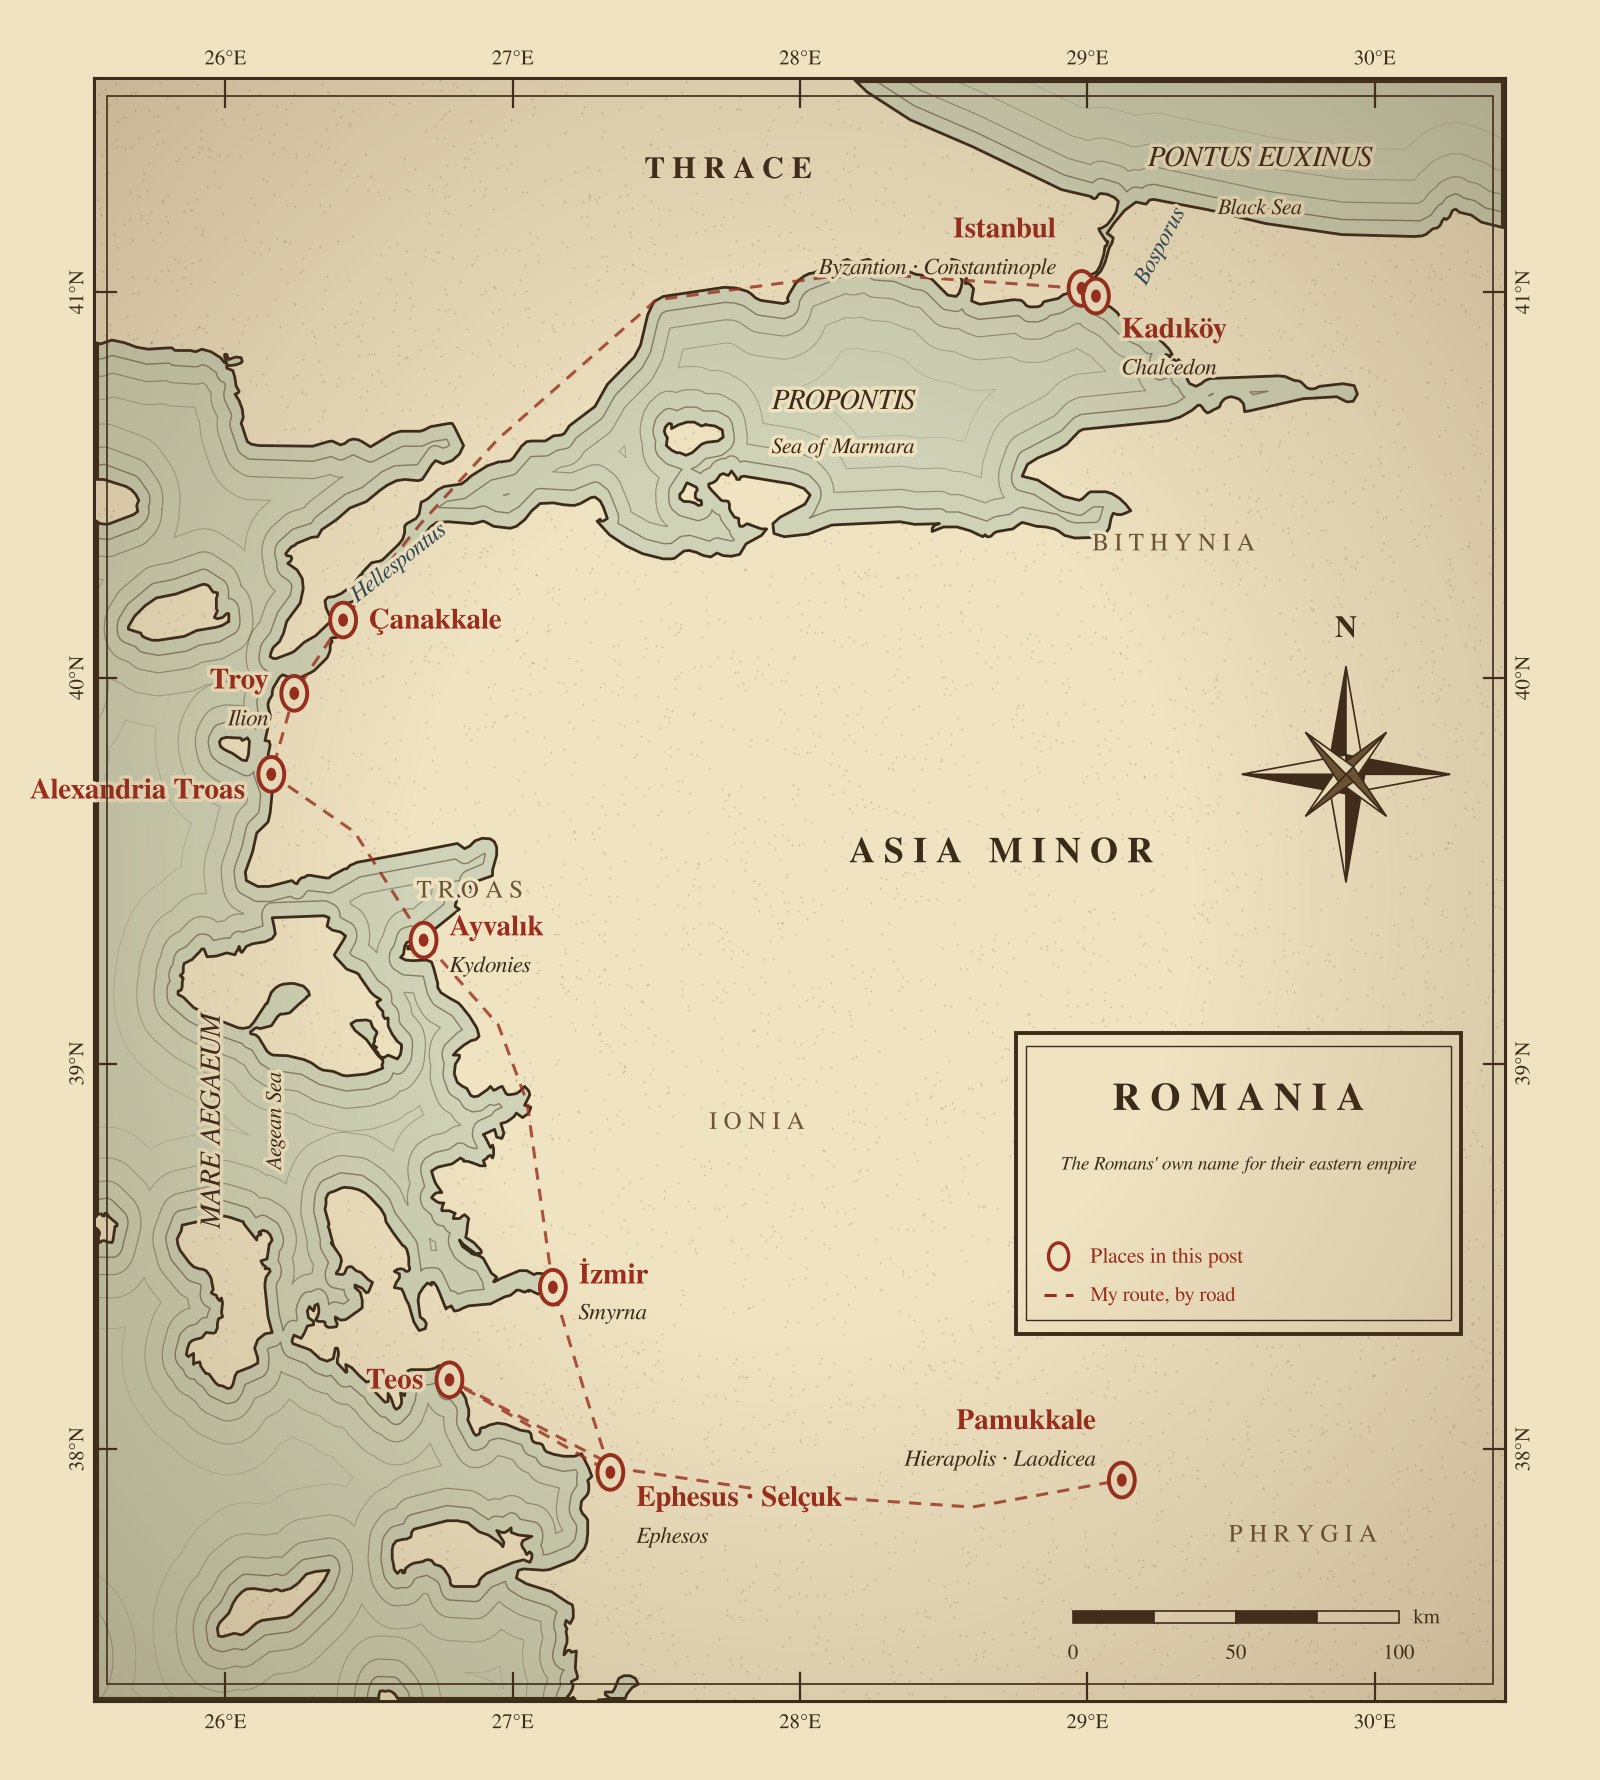
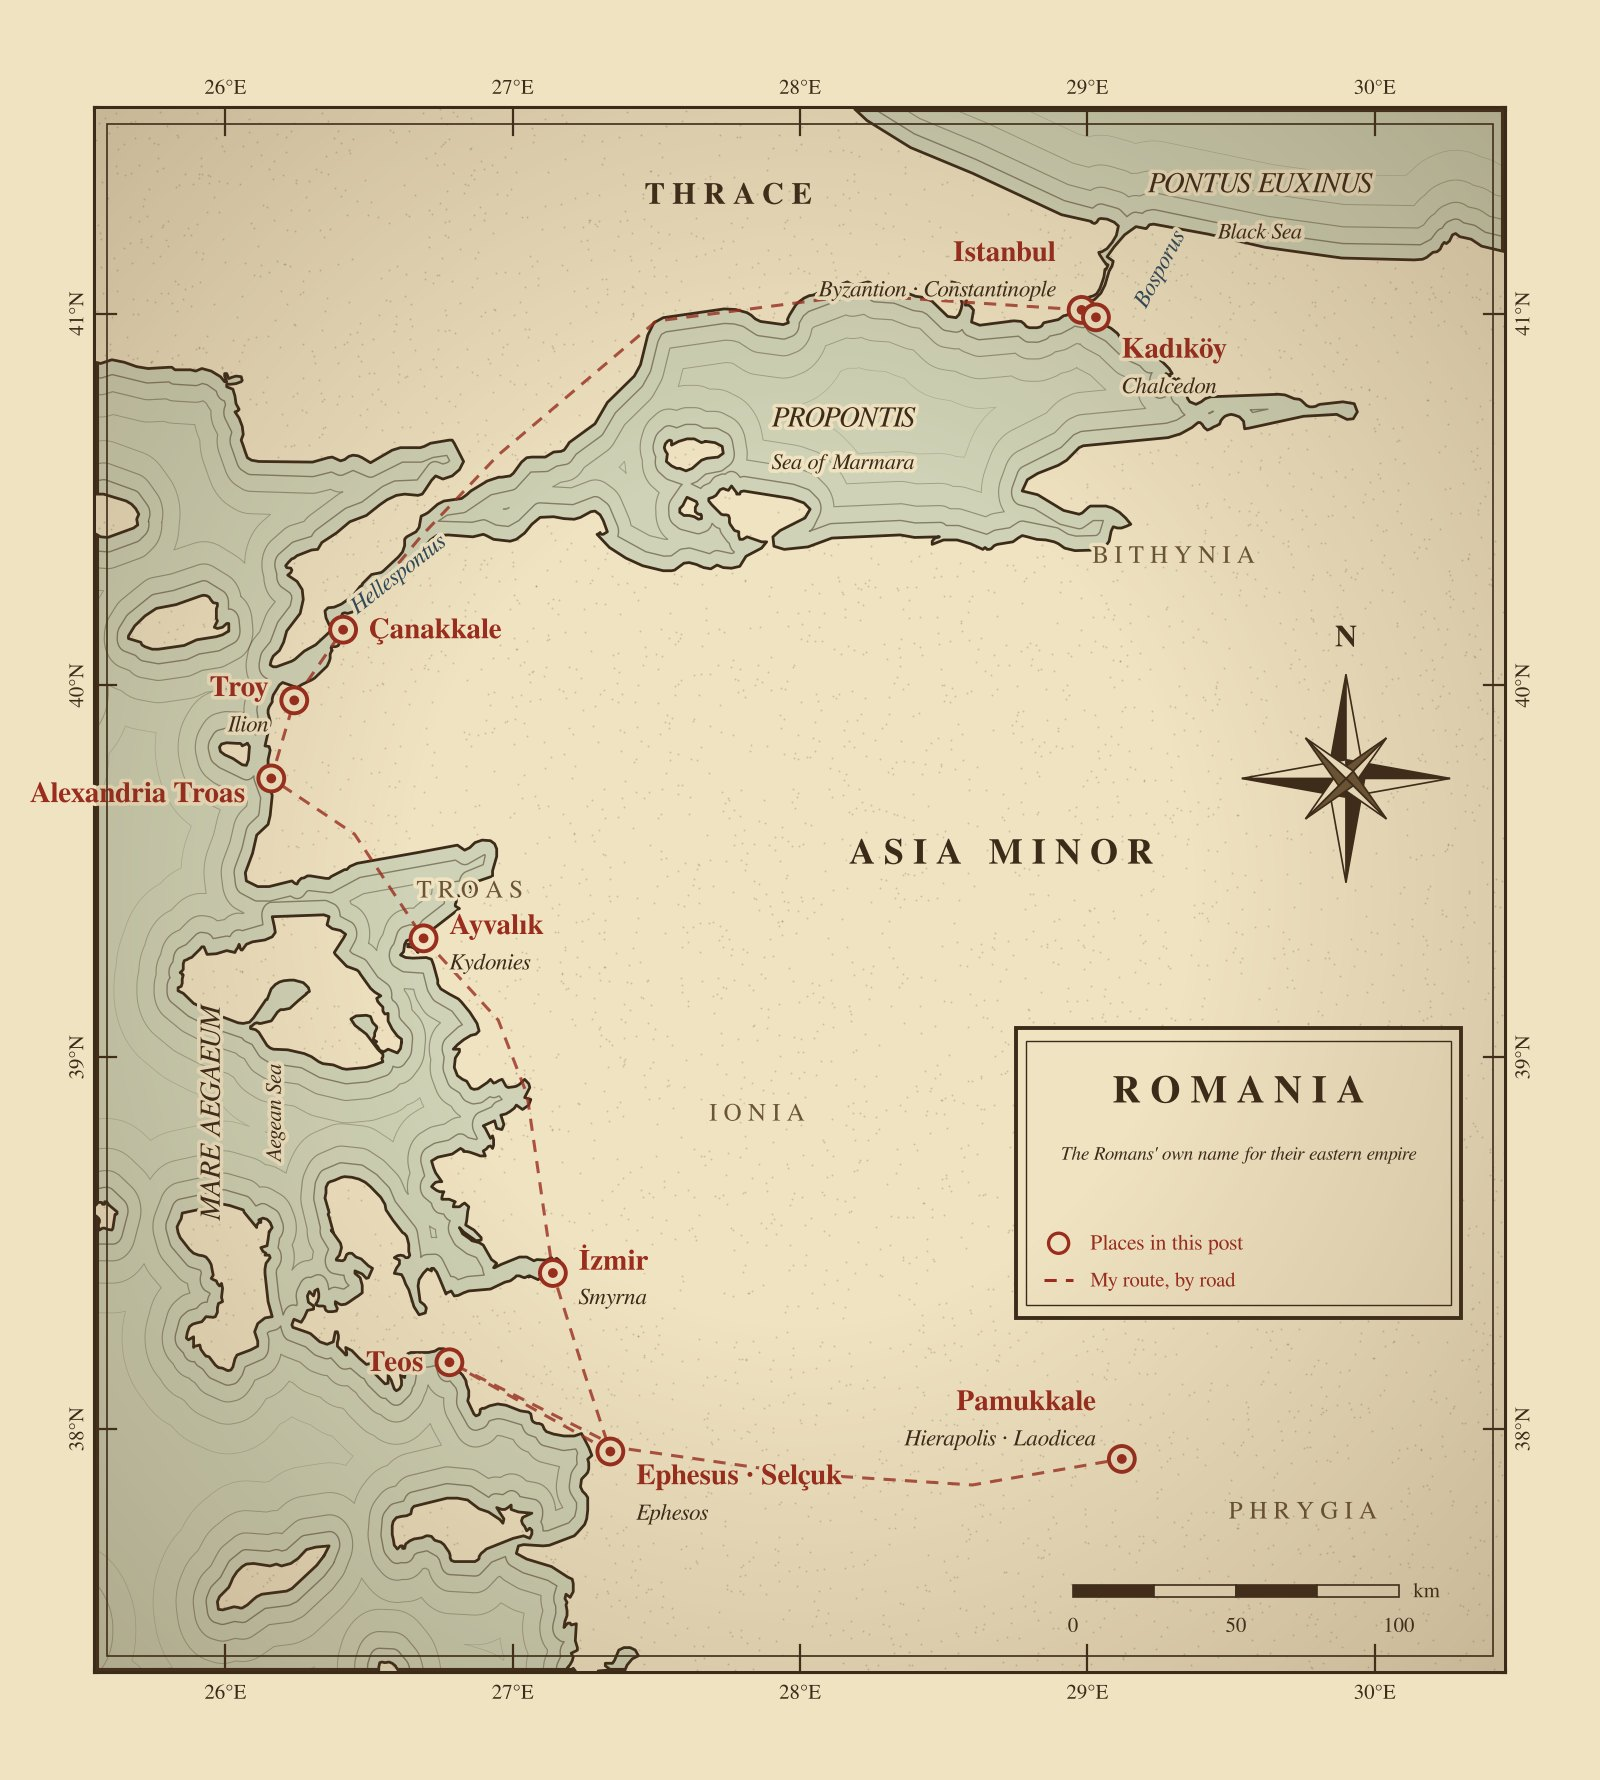
Maps: fix stretched aspect and marker shapes (Japan, Tokyo, Turkey)
Claude-Session: https://claude.ai/code/session_01HuzLqhE1N2LXEfqC3bb9e5

diff --git a/scripts/japan_map.py b/scripts/japan_map.py
@@ -4,7 +4,7 @@ import warnings, sys, json, numpy as np, matplotlib
 warnings.filterwarnings("ignore"); matplotlib.use("Agg")
 import matplotlib.pyplot as plt
 from matplotlib import patheffects as pe
-from matplotlib.patches import Rectangle, Polygon as MPoly, Circle
+from matplotlib.patches import Rectangle, Polygon as MPoly, Circle, Ellipse
 from shapely.geometry import shape, box, LineString
 from shapely import contains_xy
 LAND, OUT = sys.argv[1], sys.argv[2]
@@ -16,7 +16,7 @@ geo = json.load(open(LAND))
 land = shape(geo["features"][0]["geometry"] if "features" in geo else geo["geometry"]).intersection(box(W-2, S-2, E+2, N+2)).buffer(0)
 sea = frame.difference(land)
 k = 1/np.cos(np.radians(35))
-fig = plt.figure(figsize=(8, 8.9), dpi=200, facecolor=PAPER)
+fig = plt.figure(figsize=(10.0, round(10.0*0.88*k*(N-S)/(E-W)/0.91, 2)), dpi=200, facecolor=PAPER)
 ax = fig.add_axes([0.06, 0.045, 0.88, 0.91]); ax.set_xlim(W, E); ax.set_ylim(S, N); ax.set_aspect(k)
 ax.set_facecolor(SEA); ax.set_xticks([]); ax.set_yticks([])
 for s in ax.spines.values(): s.set_color(INK); s.set_linewidth(2.2)
@@ -47,7 +47,7 @@ def label(x, y, t, size=10, style="normal", color=INK, ha="center", sp=0, rot=0,
     ax.text(x, y, t, fontsize=size, style=style, color=color, ha=ha, va="center", rotation=rot, weight=weight, path_effects=halo, zorder=z)
 route = [(139.767,35.681),(139.617,35.507),(139.155,35.256),(138.911,35.126),(138.389,34.972),(137.734,34.704),(137.382,34.763),(136.881,35.171),(136.29,35.314),(135.758,34.985),(135.50,34.733)]
 ax.plot(*zip(*route), color=RED, lw=1.1, ls=(0, (4, 3)), alpha=0.8, zorder=7)
-label(138.3, 35.85, "Mare Iaponicum", 10.5, "italic"); label(135.75, 35.82, "Sea of Japan", 8, "italic")
+label(135.62, 35.9, "Mare Iaponicum", 10.5, "italic"); label(135.62, 35.84, "Sea of Japan", 8, "italic")
 label(138.9, 34.2, "MARE PACIFICUM", 10.5, "italic"); label(138.9, 34.08, "Pacific Ocean", 8, "italic")
 label(139.4, 35.92, "MUSASHI", 9, sp=1, color="#6b5536"); label(139.3, 35.42, "SAGAMI", 9, sp=1, color="#6b5536")
 label(138.45, 35.2, "SURUGA", 9, sp=1, color="#6b5536"); label(136.9, 35.45, "OWARI", 9, sp=1, color="#6b5536")
@@ -56,16 +56,16 @@ label(137.1, 34.92, "Tōkaidō", 9, "italic", color=RED, rot=-14)
 fx, fy = 138.727, 35.361
 ax.add_patch(MPoly([(fx-0.13, fy-0.07), (fx, fy+0.08), (fx+0.13, fy-0.07)], closed=True, facecolor=PAPER, edgecolor=INK, lw=1.2, zorder=10))
 ax.add_patch(MPoly([(fx-0.045, fy+0.028), (fx, fy+0.08), (fx+0.045, fy+0.028)], closed=True, facecolor="white", edgecolor=INK, lw=0.8, zorder=11))
-label(fx, fy - 0.15, "Mt Fuji", 10.5, color=RED, weight="bold", z=12)
+label(fx, fy + 0.15, "Mt Fuji", 10.5, color=RED, weight="bold", z=12)
 places = [(139.767, 35.681, "Tokyo", "Edo", "r", 0),
-          (139.02, 35.233, "Hakone", "", "l", 0.02),
+          (139.02, 35.233, "Hakone", "", "r", -0.03),
           (135.768, 35.011, "Kyoto", "Heian-kyō", "r", 0.05),
           (135.672, 35.02, "Arashiyama", "", "l", 0.06),
           (135.84, 34.685, "Nara", "Heijō-kyō", "r", -0.04),
           (135.502, 34.694, "Osaka", "Naniwa", "l", -0.04)]
 for x, y, n, old, side, dy in places:
-    ax.add_patch(Circle((x, y), 0.045, facecolor=PAPER, edgecolor=RED, lw=1.4, zorder=10, transform=ax.transData))
-    ax.add_patch(Circle((x, y), 0.017, facecolor=RED, edgecolor="none", zorder=11))
+    ax.add_patch(Ellipse((x, y), 2*0.045, 2*0.045/k, facecolor=PAPER, edgecolor=RED, lw=1.4, zorder=10))
+    ax.add_patch(Ellipse((x, y), 2*0.017, 2*0.017/k, facecolor=RED, edgecolor="none", zorder=11))
     dx = 0.09 if side == "r" else -0.09; ha = "left" if side == "r" else "right"
     label(x + dx, y + dy + (0.035 if old else 0), n, 10.5, color=RED, ha=ha, weight="bold", z=12)
     if old: label(x + dx, y + dy - 0.065, old, 8.3, "italic", ha=ha, z=12)
@@ -96,11 +96,11 @@ ax.add_patch(Rectangle((tx, ty), tw, th, facecolor=PAPER, edgecolor=INK, lw=1.4,
 ax.add_patch(Rectangle((tx + .035, ty + .035), tw - .07, th - .07, fill=False, edgecolor=INK, lw=0.5, zorder=13))
 ax.text(tx + tw/2, ty + th - 0.17, "N I P P O N", ha="center", va="center", fontsize=14, color=INK, weight="bold", zorder=14)
 ax.text(tx + tw/2, ty + th - 0.34, "Along the Tōkaidō, from Edo to Naniwa", ha="center", va="center", fontsize=6.9, style="italic", color=INK, zorder=14)
-ax.add_patch(Circle((tx + .15, ty + .2), 0.035, facecolor=PAPER, edgecolor=RED, lw=1.2, zorder=14))
+ax.add_patch(Ellipse((tx + .15, ty + .2), 2*0.035, 2*0.035/k, facecolor=PAPER, edgecolor=RED, lw=1.2, zorder=14))
 ax.plot([tx + .1, tx + .2], [ty + .1, ty + .1], color=RED, lw=1.1, ls=(0, (4, 3)), zorder=14)
 ax.text(tx + .26, ty + .2, "Places in this post", ha="left", va="center", fontsize=7.8, color=RED, zorder=14)
 ax.text(tx + .26, ty + .1, "My route, by train", ha="left", va="center", fontsize=7.4, color=RED, zorder=14)
 yy, xx = np.mgrid[-1:1:400j, -1:1:400j]; v = np.clip((np.sqrt(xx**2 + yy**2) - .55)/.9, 0, 1)
 rgba = np.zeros((400, 400, 4)); rgba[..., 0], rgba[..., 1], rgba[..., 2], rgba[..., 3] = .36, .25, .12, v*.28
-ax.imshow(rgba, extent=(W, E, S, N), zorder=20, interpolation="bicubic", aspect="auto"); ax.set_xlim(W, E); ax.set_ylim(S, N)
+ax.imshow(rgba, extent=(W, E, S, N), zorder=20, interpolation="bicubic", aspect=k); ax.set_xlim(W, E); ax.set_ylim(S, N)
 fig.savefig(OUT, facecolor=PAPER, dpi=200); print("ok")

diff --git a/scripts/tokyo_map.py b/scripts/tokyo_map.py
@@ -4,7 +4,7 @@ import warnings, sys, json, numpy as np, matplotlib
 warnings.filterwarnings("ignore"); matplotlib.use("Agg")
 import matplotlib.pyplot as plt
 from matplotlib import patheffects as pe
-from matplotlib.patches import Rectangle, Polygon as MPoly, Circle
+from matplotlib.patches import Rectangle, Polygon as MPoly, Circle, Ellipse
 from shapely.geometry import shape, box, LineString
 from shapely import contains_xy
 LAND, OUT = sys.argv[1], sys.argv[2]
@@ -26,7 +26,7 @@ odaiba = SPoly([(139.766, 35.632), (139.772, 35.634), (139.786, 35.630), (139.79
 land = frame.difference(bay).union(odaiba)
 sea = frame.difference(land)
 k = 1/np.cos(np.radians(35.67))
-fig = plt.figure(figsize=(8, 8.9), dpi=200, facecolor=PAPER)
+fig = plt.figure(figsize=(8.0, round(8.0*0.88*k*(N-S)/(E-W)/0.91, 2)), dpi=200, facecolor=PAPER)
 ax = fig.add_axes([0.06, 0.045, 0.88, 0.91]); ax.set_xlim(W, E); ax.set_ylim(S, N); ax.set_aspect(k)
 ax.set_facecolor(SEA); ax.set_xticks([]); ax.set_yticks([])
 for s in ax.spines.values(): s.set_color(INK); s.set_linewidth(2.2)
@@ -74,8 +74,8 @@ places = [(139.7528, 35.6852, "Imperial Palace", "Edo Castle", "l", 0.002),
           (139.7898, 35.6489, "Toyosu · teamLab", "", "r", 0),
           (139.7756, 35.6253, "Odaiba", "Daiba batteries", "r", 0)]
 for x, y, n, old, side, dy in places:
-    ax.add_patch(Circle((x, y), 0.0016, facecolor=PAPER, edgecolor=RED, lw=1.4, zorder=10, transform=ax.transData))
-    ax.add_patch(Circle((x, y), 0.0006, facecolor=RED, edgecolor="none", zorder=11))
+    ax.add_patch(Ellipse((x, y), 2*0.0016, 2*0.0016/k, facecolor=PAPER, edgecolor=RED, lw=1.4, zorder=10))
+    ax.add_patch(Ellipse((x, y), 2*0.0006, 2*0.0006/k, facecolor=RED, edgecolor="none", zorder=11))
     dx = 0.0032 if side == "r" else -0.09; ha = "left" if side == "r" else "right"
     label(x + dx, y + dy + (0.0013 if old else 0), n, 10.5, color=RED, ha=ha, weight="bold", z=12)
     if old: label(x + dx, y + dy - 0.0024, old, 8.3, "italic", ha=ha, z=12)
@@ -106,11 +106,11 @@ ax.add_patch(Rectangle((tx, ty), tw, th, facecolor=PAPER, edgecolor=INK, lw=1.4,
 ax.add_patch(Rectangle((tx + .0012, ty + .0012), tw - .0024, th - .0024, fill=False, edgecolor=INK, lw=0.5, zorder=13))
 ax.text(tx + tw/2, ty + th - 0.0045, "E D O · T O K Y O", ha="center", va="center", fontsize=14, color=INK, weight="bold", zorder=14)
 ax.text(tx + tw/2, ty + th - 0.009, "The shogun's city and the emperor's capital", ha="center", va="center", fontsize=6.9, style="italic", color=INK, zorder=14)
-ax.add_patch(Circle((tx + .005, ty + .0045), 0.0013, facecolor=PAPER, edgecolor=RED, lw=1.2, zorder=14))
+ax.add_patch(Ellipse((tx + .005, ty + .0045), 2*0.0013, 2*0.0013/k, facecolor=PAPER, edgecolor=RED, lw=1.2, zorder=14))
 ax.plot([], [], color=RED, lw=1.1, ls=(0, (4, 3)), zorder=14)
 ax.text(tx + .009, ty + .0045, "Places in this post", ha="left", va="center", fontsize=7.8, color=RED, zorder=14)
 ax.text(tx + .009, ty + .0045, "", ha="left", va="center", fontsize=7.4, color=RED, zorder=14)
 yy, xx = np.mgrid[-1:1:400j, -1:1:400j]; v = np.clip((np.sqrt(xx**2 + yy**2) - .55)/.9, 0, 1)
 rgba = np.zeros((400, 400, 4)); rgba[..., 0], rgba[..., 1], rgba[..., 2], rgba[..., 3] = .36, .25, .12, v*.28
-ax.imshow(rgba, extent=(W, E, S, N), zorder=20, interpolation="bicubic", aspect="auto"); ax.set_xlim(W, E); ax.set_ylim(S, N)
+ax.imshow(rgba, extent=(W, E, S, N), zorder=20, interpolation="bicubic", aspect=k); ax.set_xlim(W, E); ax.set_ylim(S, N)
 fig.savefig(OUT, facecolor=PAPER, dpi=200); print("ok")

diff --git a/scripts/turkey_map.py b/scripts/turkey_map.py
@@ -4,7 +4,7 @@ import warnings, sys, json, numpy as np, matplotlib
 warnings.filterwarnings("ignore"); matplotlib.use("Agg")
 import matplotlib.pyplot as plt
 from matplotlib import patheffects as pe
-from matplotlib.patches import Rectangle, Polygon as MPoly, Circle
+from matplotlib.patches import Rectangle, Polygon as MPoly, Circle, Ellipse
 from shapely.geometry import shape, box, LineString
 from shapely import contains_xy
 LAND, OUT = sys.argv[1], sys.argv[2]
@@ -70,8 +70,8 @@ places = [(28.98, 41.01, "Istanbul", "Byzantion · Constantinople", "l", 0.12),
           (27.34, 37.94, "Ephesus · Selçuk", "Ephesos", "r", -0.1),
           (29.12, 37.92, "Pamukkale", "Hierapolis · Laodicea", "l", 0.12)]
 for x, y, n, old, side, dy in places:
-    ax.add_patch(Circle((x, y), 0.045, facecolor=PAPER, edgecolor=RED, lw=1.4, zorder=10, transform=ax.transData))
-    ax.add_patch(Circle((x, y), 0.017, facecolor=RED, edgecolor="none", zorder=11))
+    ax.add_patch(Ellipse((x, y), 2*0.045, 2*0.045/k, facecolor=PAPER, edgecolor=RED, lw=1.4, zorder=10))
+    ax.add_patch(Ellipse((x, y), 2*0.017, 2*0.017/k, facecolor=RED, edgecolor="none", zorder=11))
     dx = 0.09 if side == "r" else -0.09; ha = "left" if side == "r" else "right"
     label(x + dx, y + dy + (0.035 if old else 0), n, 10.5, color=RED, ha=ha, weight="bold", z=12)
     if old: label(x + dx, y + dy - 0.065, old, 8.3, "italic", ha=ha, z=12)
@@ -102,11 +102,11 @@ ax.add_patch(Rectangle((tx, ty), tw, th, facecolor=PAPER, edgecolor=INK, lw=1.4,
 ax.add_patch(Rectangle((tx + .035, ty + .035), tw - .07, th - .07, fill=False, edgecolor=INK, lw=0.5, zorder=13))
 ax.text(tx + tw/2, ty + th - 0.17, "R O M A N I A", ha="center", va="center", fontsize=14, color=INK, weight="bold", zorder=14)
 ax.text(tx + tw/2, ty + th - 0.34, "The Romans' own name for their eastern empire", ha="center", va="center", fontsize=6.9, style="italic", color=INK, zorder=14)
-ax.add_patch(Circle((tx + .15, ty + .2), 0.035, facecolor=PAPER, edgecolor=RED, lw=1.2, zorder=14))
+ax.add_patch(Ellipse((tx + .15, ty + .2), 2*0.035, 2*0.035/k, facecolor=PAPER, edgecolor=RED, lw=1.2, zorder=14))
 ax.plot([tx + .1, tx + .2], [ty + .1, ty + .1], color=RED, lw=1.1, ls=(0, (4, 3)), zorder=14)
 ax.text(tx + .26, ty + .2, "Places in this post", ha="left", va="center", fontsize=7.8, color=RED, zorder=14)
 ax.text(tx + .26, ty + .1, "My route, by road", ha="left", va="center", fontsize=7.4, color=RED, zorder=14)
 yy, xx = np.mgrid[-1:1:400j, -1:1:400j]; v = np.clip((np.sqrt(xx**2 + yy**2) - .55)/.9, 0, 1)
 rgba = np.zeros((400, 400, 4)); rgba[..., 0], rgba[..., 1], rgba[..., 2], rgba[..., 3] = .36, .25, .12, v*.28
-ax.imshow(rgba, extent=(W, E, S, N), zorder=20, interpolation="bicubic", aspect="auto"); ax.set_xlim(W, E); ax.set_ylim(S, N)
+ax.imshow(rgba, extent=(W, E, S, N), zorder=20, interpolation="bicubic", aspect=k); ax.set_xlim(W, E); ax.set_ylim(S, N)
 fig.savefig(OUT, facecolor=PAPER, dpi=200); print("ok")
